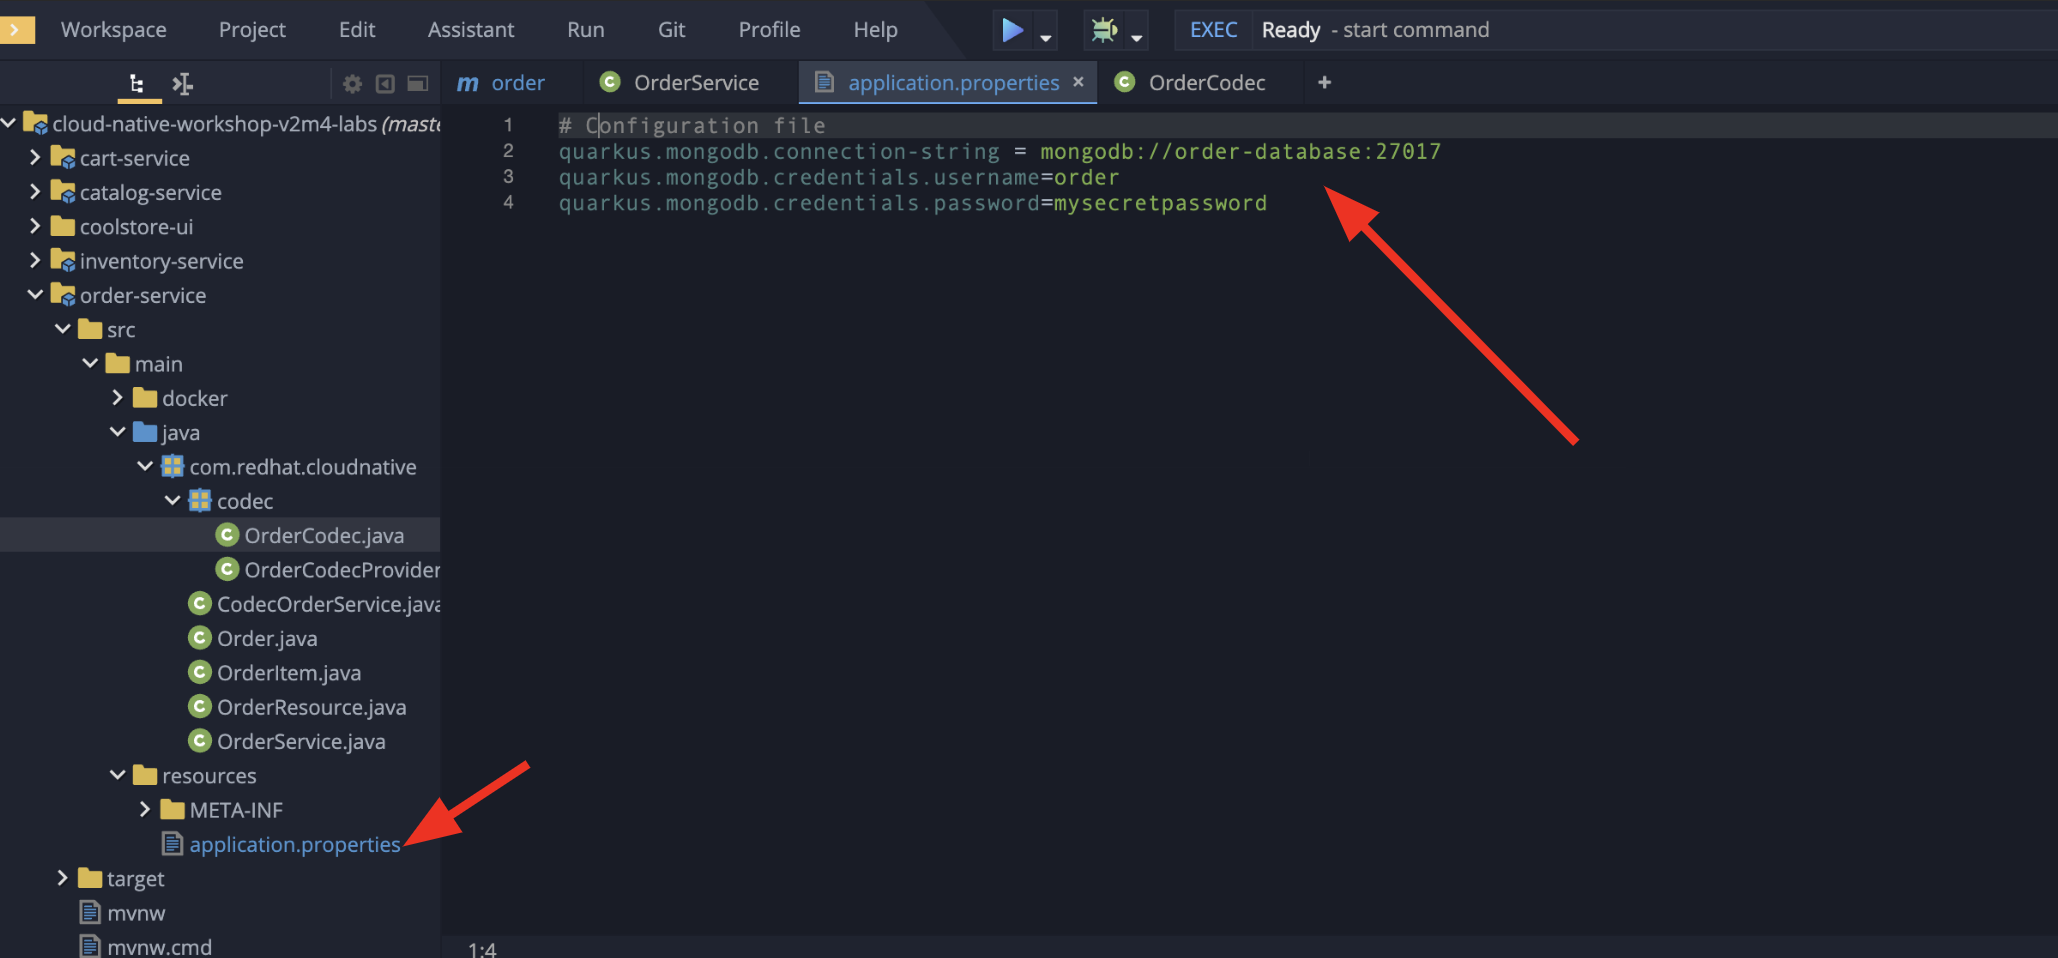
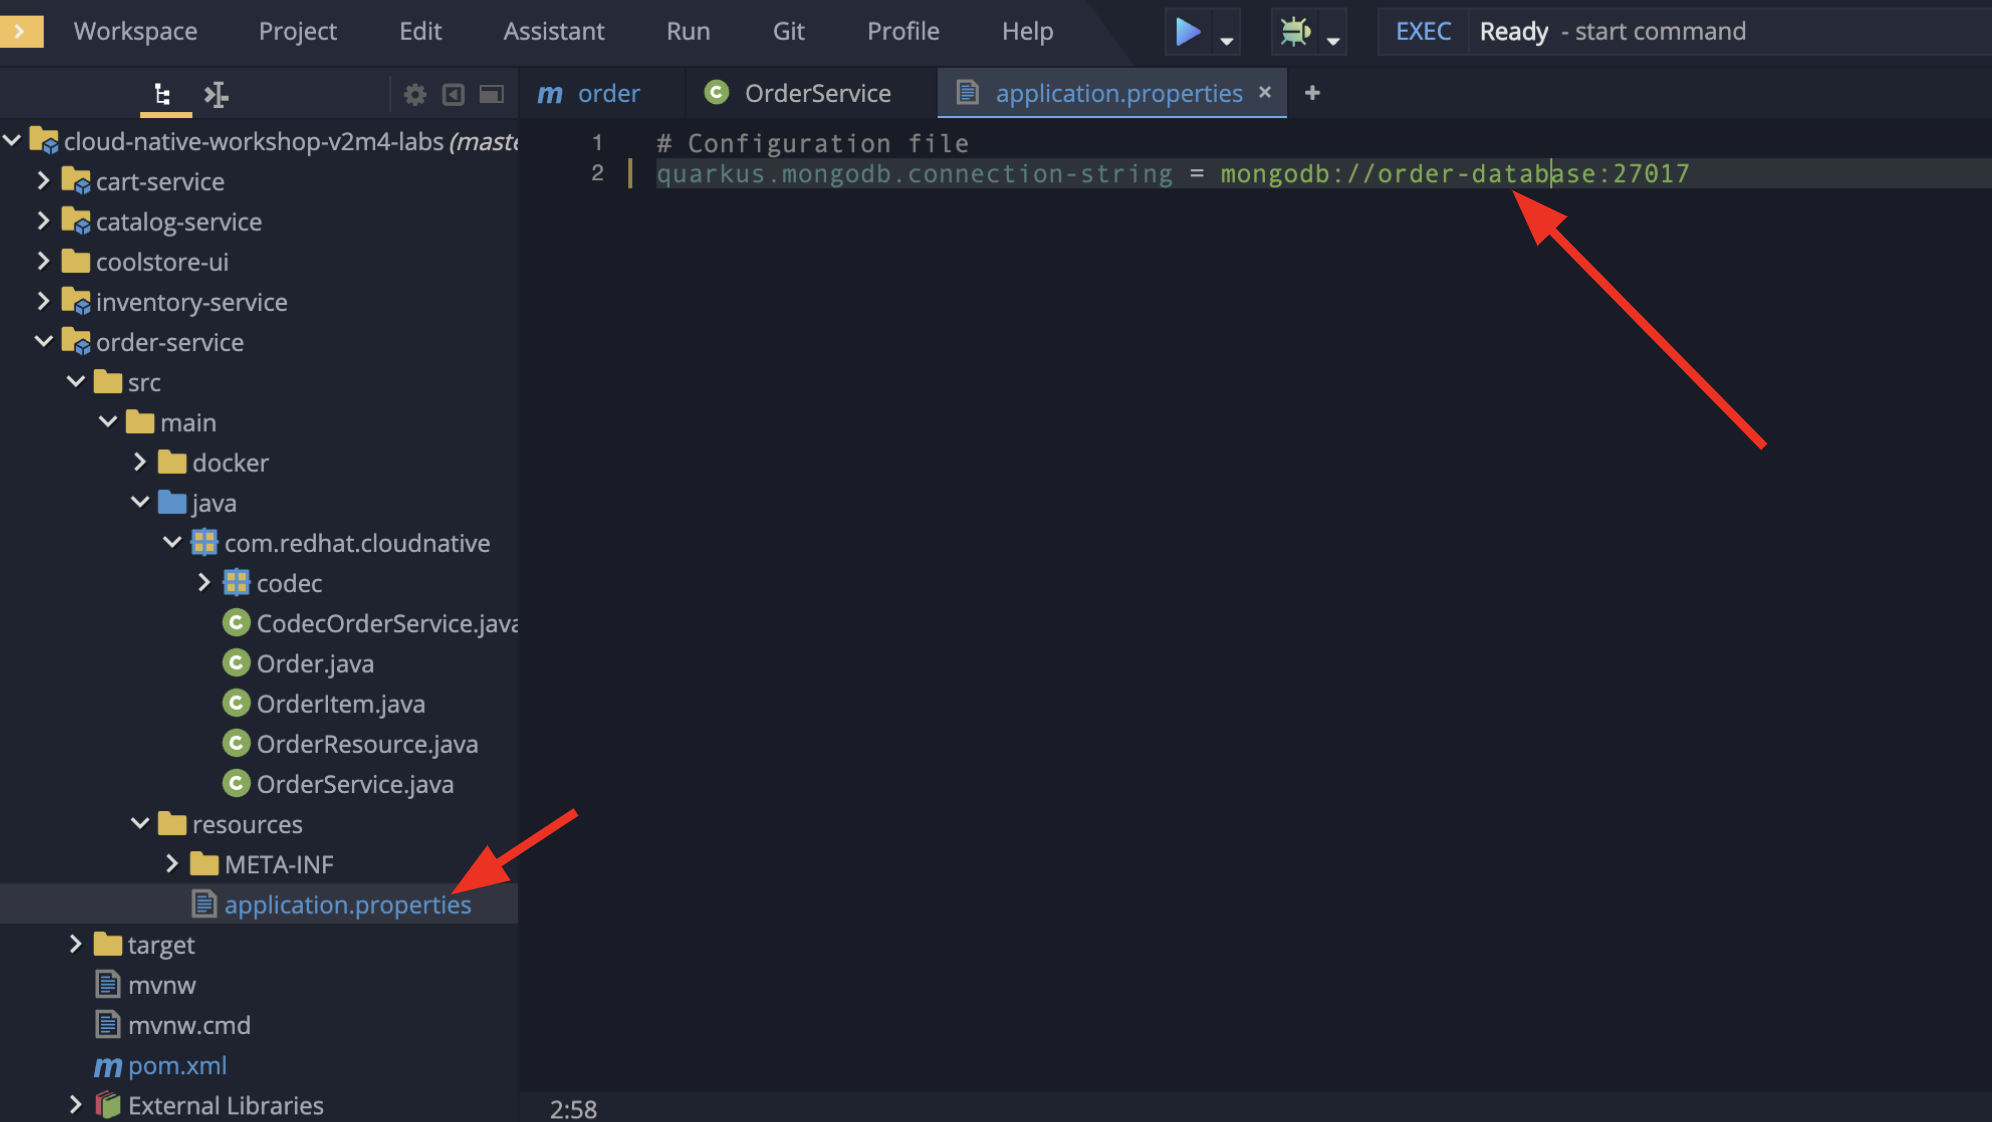
fix mongo issue

diff --git a/high-performing-cache-services.md b/high-performing-cache-services.md
@@ -13,7 +13,7 @@ to increase end users'(customers) satification. And there's more fun facts how e
 The goal is to develop advanced cloud-native applications on `Red Hat Application Runtimes` and deploy them on `OpenShift 4` including 
 `single sign-on access management` and `distributed cache manageemnt`. After this lab, you should end up with something like:
 
-![goal]({% image_path module4-goal.png %})
+![goal]({% image_path lab1-goal.png %})
 
 ####1. Deploying Inventory Service
 
@@ -758,7 +758,7 @@ the quarkus-mongodb-client extension has been added to your `pom.xml`.
 
 First, let’s have a look at the `Order` bean in `src/main/java/com/redhat/cloudnative/`as follows:
 
-![openshift_login]({% image_path order_bean.png %})
+![openshift_login]({% image_path order_bean.png %}){:width="700px"}
 
 Nothing fancy. One important thing to note is that having a default constructor is required by the `JSON serialization layer`.
 
@@ -851,12 +851,8 @@ so we advise you to do so, you can find more information in the [MongoDB documen
 
 Open `application.properties` in `src/main/resources/` and add the following configuration:
 
-~~~java
-quarkus.mongodb.connection-string = mongodb://order-database:27017
-quarkus.mongodb.credentials.username=order
-quarkus.mongodb.credentials.password=mysecretpassword
+`quarkus.mongodb.connection-string = mongodb://order-database:27017`
 
-~~~
 
 ![order]({% image_path order_application_properties.png %})
 
@@ -973,13 +969,7 @@ Or runthe following maven plugin in CodeReady Workspaces`Terminal`:
 
 Run the following `oc` command to deploy a `MongoDB` to OpenShift via CodeReady Workspaces `Terminal`:
 
-~~~shell
-oc new-app -e MONGODB_USER=order \
-    -e MONGODB_PASSWORD=mysecretpassword \
-    -e MONGODB_ADMIN_PASSWORD=adminpwd \
-    -e MONGODB_DATABASE=order-database mongodb:3.6 \
-    --name=order-database    
-~~~
+`oc new-app  --docker-image mongo:4.0 --name=order-database`    
 
 Once the MongoDB is deployed successfully, it will be showd in `Project Status`.
 
@@ -1036,10 +1026,10 @@ curl -X POST $URL/orders \
 You will see the following result:
 
 ~~~shell
-bla bla
+[{"customerEmail":"dan@example.com","customerName":"Dan","discount":0.3,"id":"1","orderValue":3.0,"retailPrice":100.0,"shippingDiscount":0.2,"shippingFee":20.0}]
 ~~~
 
-![openshift_login]({% image_path inventory_curl_result.png %})
+![openshift_login]({% image_path order_curl_result.png %})
 
 
 ####5. Developing and Deploying Payment Service
